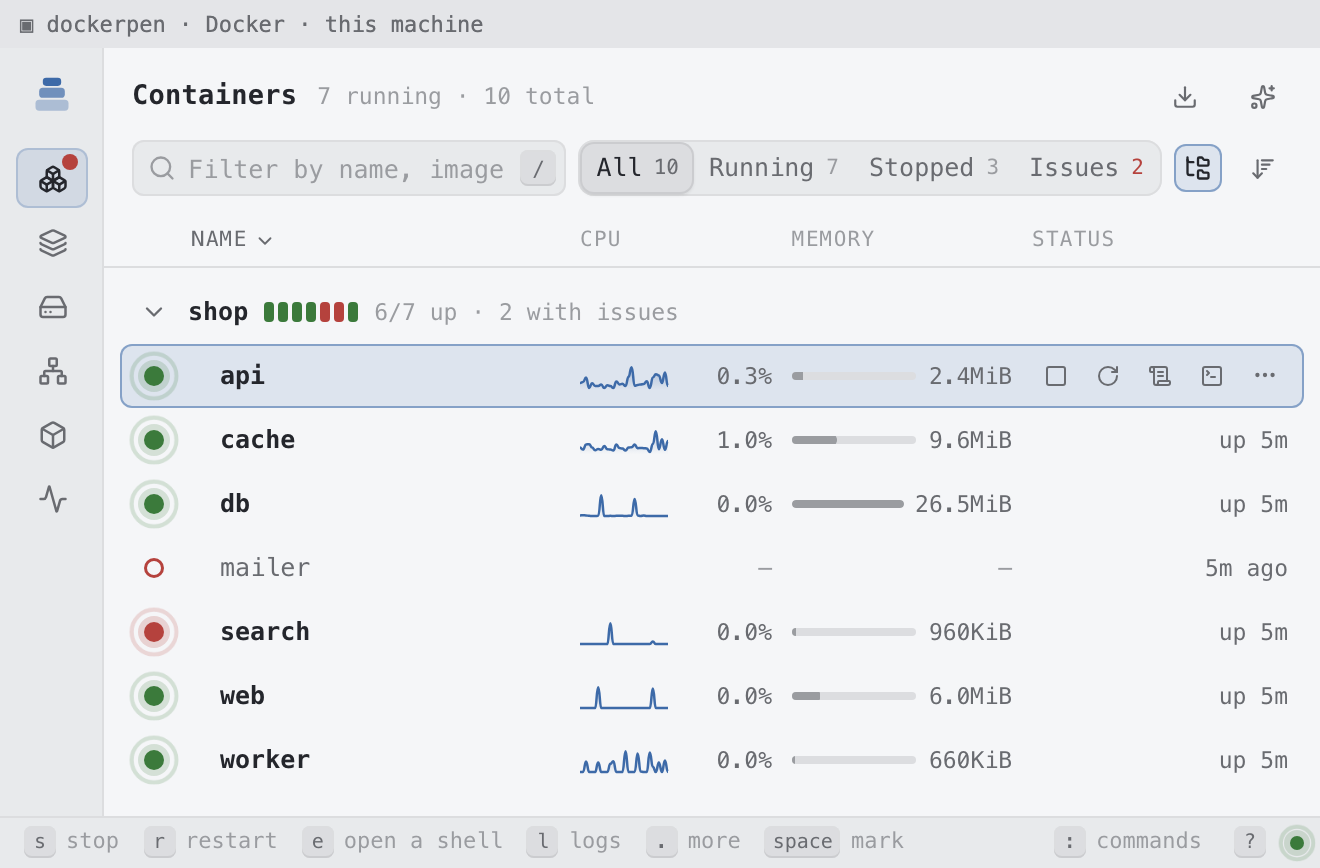
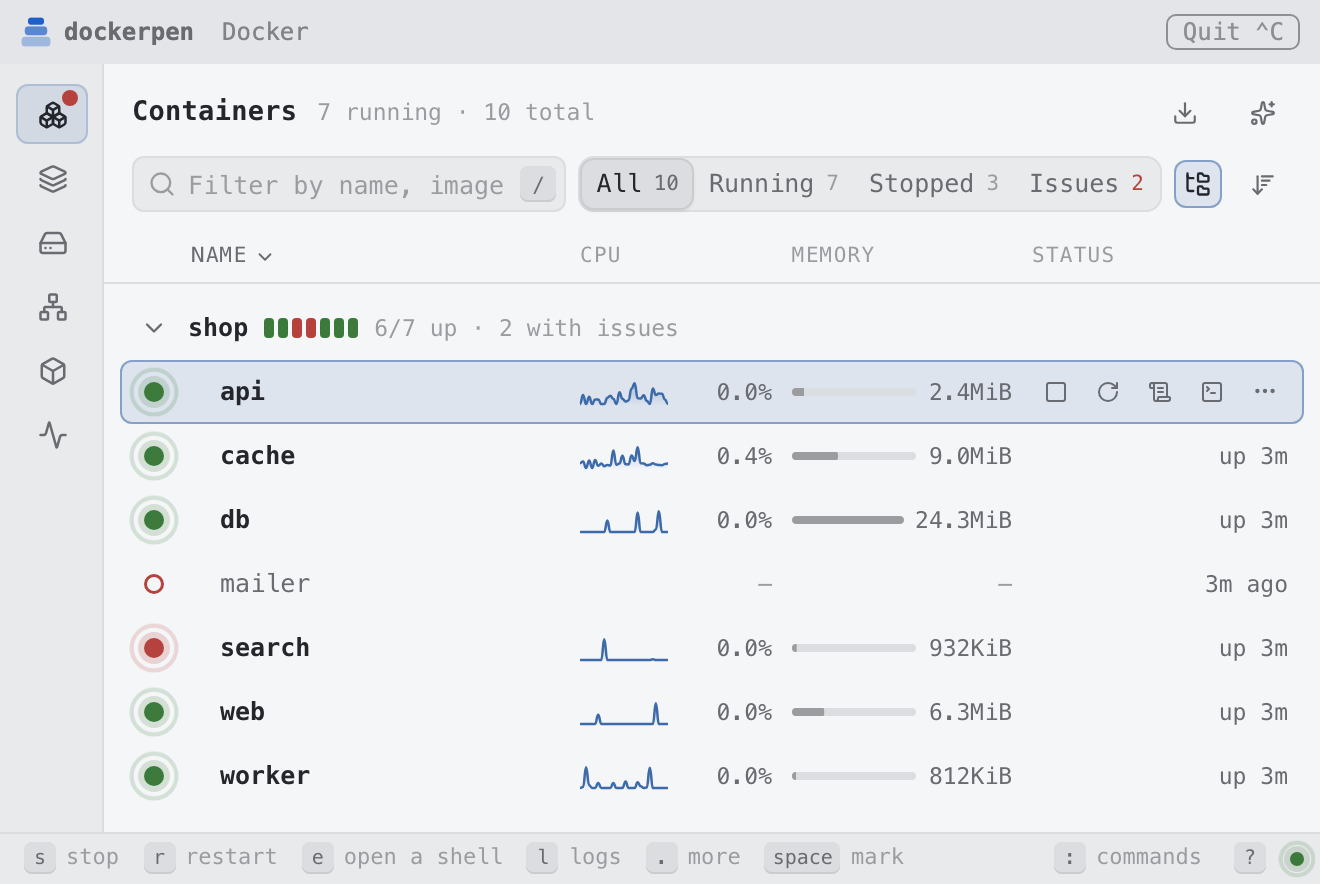
Start the rail with the sections, since the terminal names the program above the view
The mark, the name and user@host at the top of the rail said what bateri's strip now
says over every view: the program with its icon, and the machine it runs on. An MCP
Apps host names the app it shows in the same way, so the view says each thing once by
leaving them out; the server no longer sends the user and host name it was the only
reader of. The mark stays on the screen shown while Docker cannot be reached.

The harness's strip follows bateri's: the server's icon, picked for the theme's ground
as pencere picks one, its name, the tool's title and Quit ⌃C, 32 pixels high. The
screenshots are taken again with it, from the demo engine.

Claude-Session: https://claude.ai/code/session_018cUhWRLhS4so2uphUy4bPC

diff --git a/harness/host.ts b/harness/host.ts
@@ -178,6 +178,40 @@ function themeOf(p: Palette): "dark" | "light" {
   return luminance(parse(p.background)) < luminance(parse(p.foreground)) ? "dark" : "light";
 }
 
+/** The strip's height, as bateri's (`view_strip::HEIGHT`): the pane's less this is the view's. */
+const STRIP = 32;
+
+interface StripIcon {
+  src: string;
+  sizes?: string[];
+  theme?: "light" | "dark";
+}
+
+/** The strip's side of an icon on a Retina screen, as bateri asks (`ICON_PIXELS`). */
+const ICON_PIXELS = 32;
+
+/**
+ * The icon a terminal draws for a ground, as pencere picks one (`icon::pick`): one made for that
+ * ground before one for either, never one for the other ground; then the smallest that is at
+ * least `ICON_PIXELS`, else the largest. Only a data: URI is drawn, as a terminal fetches none.
+ */
+function pickIcon(icons: StripIcon[], theme: "light" | "dark"): StripIcon | undefined {
+  const side = (icon: StripIcon) => Number(/^(\d+)x/.exec(icon.sizes?.[0] ?? "")?.[1] ?? 0);
+  const rank = (icon: StripIcon) => [
+    icon.theme === theme ? 0 : 1,
+    side(icon) < ICON_PIXELS ? 1 : 0,
+    side(icon) < ICON_PIXELS ? -side(icon) : side(icon),
+  ];
+  return icons
+    .filter((icon) => icon.src.startsWith("data:") && (!icon.theme || icon.theme === theme))
+    .sort((a, b) => {
+      const [x, y] = [rank(a), rank(b)];
+      return x[0]! - y[0]! || x[1]! - y[1]! || x[2]! - y[2]!;
+    })[0];
+}
+
+let server: { name?: string; title?: string; icons?: StripIcon[] } = {};
+
 const frame = document.getElementById("view") as HTMLIFrameElement;
 const themeSelect = document.getElementById("theme") as HTMLSelectElement;
 const sizeSelect = document.getElementById("size") as HTMLSelectElement;
@@ -201,12 +235,12 @@ const bare = params.has("bare");
 if (bare) document.body.classList.add("bare");
 
 const size = () => {
-  if (bare) return { name: "bare", width: window.innerWidth, height: window.innerHeight - 24 };
+  if (bare) return { name: "bare", width: window.innerWidth, height: window.innerHeight - STRIP };
   if (sizeSelect.value === "fit") {
     return {
       name: "fit",
       width: window.innerWidth - 32,
-      height: window.innerHeight - 36 - 32 - 24,
+      height: window.innerHeight - 36 - 32 - STRIP,
     };
   }
   return SIZES.find((s) => s.name === sizeSelect.value) ?? SIZES[0]!;
@@ -221,6 +255,21 @@ function place(): void {
   const p = palette();
   strip.style.background = css(toward(parse(p.background), parse(p.foreground), 0.08));
   strip.style.color = p.dim ?? css(toward(parse(p.foreground), parse(p.background), 1 / 3));
+  // The picture is picked again with the theme, as bateri does each time it paints the strip.
+  const icon = pickIcon(server.icons ?? [], themeOf(p));
+  const image = document.getElementById("strip-icon") as HTMLImageElement;
+  if (icon) image.src = icon.src;
+  else image.removeAttribute("src");
+}
+
+/** The program and the view, as the strip names them: the server's title or name, the tool's title. */
+async function nameTheStrip(): Promise<void> {
+  server = (await fetch("/__harness/server").then((r) => r.json())) as typeof server;
+  const program = server.title ?? server.name ?? "";
+  document.getElementById("strip-program")!.textContent = program;
+  const title = (tool as { title?: string } | undefined)?.title ?? "";
+  document.getElementById("strip-title")!.textContent = title === program ? "" : title;
+  place();
 }
 
 function context() {
@@ -269,6 +318,7 @@ window.addEventListener("message", async (event) => {
         tools: { name: string }[];
       };
       tool = listed.tools.find((t) => t.name === "show_docker");
+      void nameTheStrip();
       answer({
         protocolVersion: "2026-01-26",
         hostInfo: { name: "dockerpen-harness", version: "0.0.0" },

diff --git a/src/view/components/Rail.tsx b/src/view/components/Rail.tsx
@@ -8,17 +8,6 @@ import { go, useStore } from "../state/store";
 import { memory, percent } from "../lib/format";
 import { Sparkline } from "./ui";
 
-export function Mark({ className }: { className?: string }) {
-  // Three containers, stacked: the second lifted, as if one were being picked out.
-  return (
-    <svg className={className} viewBox="0 0 24 24" fill="none" aria-hidden>
-      <rect x="3" y="14" width="18" height="6" rx="2" fill="currentColor" opacity="0.35" />
-      <rect x="5" y="7.5" width="14" height="5.5" rx="2" fill="currentColor" opacity="0.7" />
-      <rect x="7" y="2" width="10" height="4.5" rx="1.8" fill="currentColor" />
-    </svg>
-  );
-}
-
 export function Rail() {
   const section = useStore((s) => s.ui.section);
   const containers = useStore((s) => s.containers);
@@ -27,7 +16,6 @@ export function Rail() {
   const networks = useStore((s) => s.networks);
   const engine = useStore((s) => s.engine);
   const totals = useStore((s) => s.totals);
-  const boot = useStore((s) => s.boot);
   const jobs = useStore((s) => s.jobs);
   const events = useStore((s) => s.events);
   const liveFrom = useStore((s) => s.liveFrom);
@@ -47,17 +35,6 @@ export function Rail() {
 
   return (
     <nav className="rail" aria-label="Sections">
-      <div className="brand">
-        <Mark className="brand-mark" />
-        <div className="brand-text" style={{ minWidth: 0 }}>
-          <div className="brand-name">dockerpen</div>
-          <div className="brand-host ellipsis">
-            {boot
-              ? `${boot.user ? `${boot.user}@` : ""}${boot.hostname.replace(/\.local$|\.lan$/, "")}`
-              : ""}
-          </div>
-        </div>
-      </div>
       {SECTIONS.map((s) => (
         <button
           key={s.id}

diff --git a/harness/index.html b/harness/index.html
@@ -57,15 +57,37 @@
           0 20px 60px rgba(0, 0, 0, 0.5),
           0 0 0 1px rgba(255, 255, 255, 0.06);
       }
+      /* bateri's strip over a program's view: its icon and name, the view's title, the way out. */
       #strip {
-        height: 24px;
+        height: 32px;
         display: flex;
         align-items: center;
-        gap: 8px;
+        gap: 6px;
         padding: 0 10px;
-        font-size: 11px;
+        font-size: 12px;
         background: #111;
         color: #888;
+      }
+      #strip-icon {
+        width: 16px;
+        height: 16px;
+      }
+      #strip-icon:not([src]) {
+        display: none;
+      }
+      #strip-program {
+        font-weight: 600;
+      }
+      #strip-title {
+        margin-left: 8px;
+        opacity: 0.8;
+      }
+      #strip-quit {
+        margin-left: auto;
+        padding: 2px 8px;
+        border-radius: 5px;
+        box-shadow: inset 0 0 0 1px currentColor;
+        opacity: 0.7;
       }
       iframe {
         border: 0;
@@ -110,7 +132,10 @@
     </header>
     <div id="stage">
       <div id="pane">
-        <div id="strip">▣ dockerpen · Docker · this machine</div>
+        <div id="strip">
+          <img id="strip-icon" alt="" /><span id="strip-program">dockerpen</span
+          ><span id="strip-title"></span><span id="strip-quit">Quit ⌃C</span>
+        </div>
         <iframe id="view" title="view"></iframe>
       </div>
     </div>

diff --git a/src/view/styles.css b/src/view/styles.css
@@ -217,30 +217,11 @@ input:focus-visible {
   overflow: hidden;
 }
 
-.brand {
-  display: flex;
-  align-items: center;
-  gap: 9px;
-  padding: 2px 5px 12px;
-  height: 38px;
-}
-
 .brand-mark {
   width: 22px;
   height: 22px;
   flex: none;
   color: var(--accent);
-}
-
-.brand-name {
-  font-weight: 650;
-  letter-spacing: 0.01em;
-}
-
-.brand-host {
-  color: var(--fg-3);
-  font-size: 10.5px;
-  line-height: 1.1;
 }
 
 .nav-item {
@@ -331,7 +312,6 @@ input:focus-visible {
 .app[data-rail="compact"] .nav-label,
 .app[data-rail="compact"] .nav-count,
 .app[data-rail="compact"] .nav-key,
-.app[data-rail="compact"] .brand-text,
 .app[data-rail="compact"] .engine-card {
   display: none;
 }
@@ -339,11 +319,6 @@ input:focus-visible {
 .app[data-rail="compact"] .nav-item {
   justify-content: center;
   padding: 0;
-}
-
-.app[data-rail="compact"] .brand {
-  justify-content: center;
-  padding: 2px 0 12px;
 }
 
 .app[data-rail="compact"] .nav-badge {

diff --git a/src/view/components/Screens.tsx b/src/view/components/Screens.tsx
@@ -7,8 +7,19 @@ import { PlugZap, RefreshCw } from "lucide-react";
 import { pollNow } from "../state/actions";
 import { useKeyLayer } from "../state/keys";
 import { useStore } from "../state/store";
-import { Mark } from "./Rail";
 import { Button } from "./ui";
+
+/** dockerpen's mark, which tools/icon.mjs also draws as its icon. */
+function Mark({ className }: { className?: string }) {
+  // Three containers, stacked: the second lifted, as if one were being picked out.
+  return (
+    <svg className={className} viewBox="0 0 24 24" fill="none" aria-hidden>
+      <rect x="3" y="14" width="18" height="6" rx="2" fill="currentColor" opacity="0.35" />
+      <rect x="5" y="7.5" width="14" height="5.5" rx="2" fill="currentColor" opacity="0.7" />
+      <rect x="7" y="2" width="10" height="4.5" rx="1.8" fill="currentColor" />
+    </svg>
+  );
+}
 
 export function BootScreen() {
   return (

diff --git a/src/server/app.ts b/src/server/app.ts
@@ -6,7 +6,6 @@
  */
 
 import { spawnSync } from "node:child_process";
-import { hostname, userInfo } from "node:os";
 
 import {
   StatsSampler,
@@ -100,18 +99,7 @@ export class Dockerpen {
   boot(): Boot {
     const returned = this.returned;
     this.returned = undefined;
-    let user = "";
-    try {
-      user = userInfo().username;
-    } catch {
-      // A user without an entry in the password file still runs programs.
-    }
-    return {
-      ui: this.ui,
-      ...(returned ? { returned } : {}),
-      user,
-      hostname: hostname(),
-    };
+    return { ui: this.ui, ...(returned ? { returned } : {}) };
   }
 
   /** Whether the pane can be handed to a command: a terminal, and the docker command to run there. */

diff --git a/harness/plugin.ts b/harness/plugin.ts
@@ -49,6 +49,8 @@ export function harness(): Plugin {
           const c = await connect();
           let result: unknown;
           if (request.url === "/__harness/tools") result = await c.listTools();
+          // The server's name and icons, which a terminal draws on the strip above the view.
+          else if (request.url === "/__harness/server") result = c.getServerVersion() ?? {};
           else {
             const { name, arguments: args } = JSON.parse(await body(request)) as {
               name: string;

diff --git a/src/server/types.ts b/src/server/types.ts
@@ -178,8 +178,6 @@ export interface Boot {
   ui: UiState;
   /** What the pane was handed to, when the view comes back from it. */
   returned?: Handoff;
-  user: string;
-  hostname: string;
 }
 
 export interface ContainerDetail {

diff --git a/CHANGELOG.md b/CHANGELOG.md
@@ -9,10 +9,16 @@ change what the previous one did.
 
 ### Added
 
-- dockerpen's icon, the mark of three stacked containers its view shows, beside its name above
-  the view in a terminal that draws program icons (bateri), and beside the server in MCP clients
-  that show them. It comes for a dark ground and a light one, as PNGs inside the program, since a
-  terminal draws only the icons it is given and fetches none.
+- dockerpen's icon, its mark of three stacked containers, beside its name above the view in a
+  terminal that draws program icons (bateri), and beside the server in MCP clients that show
+  them. It comes for a dark ground and a light one, as PNGs inside the program, since a terminal
+  draws only the icons it is given and fetches none.
+
+### Changed
+
+- The rail starts with the sections: the mark, the name and the user and machine at its top are
+  gone, since the terminal says them above the view (its strip in bateri names the program, with
+  its icon, and the machine it runs on), as an MCP Apps host names the app it shows.
 
 ## [0.1.1] - 2026-10-22
 
